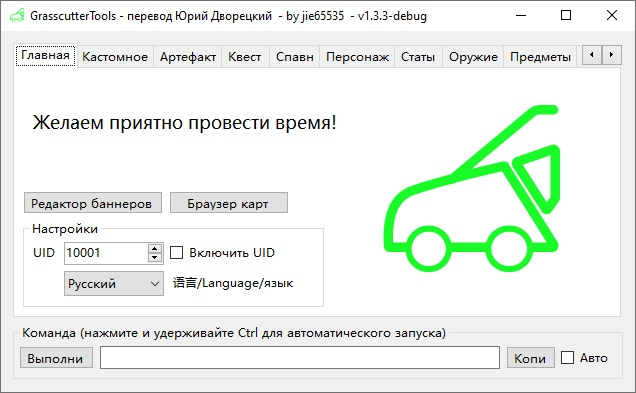
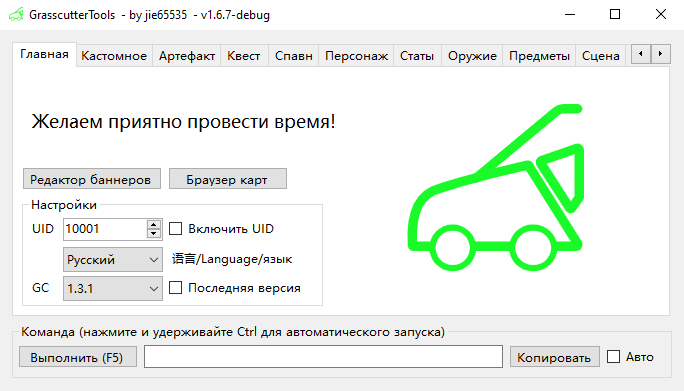
ru translation (from #119) (#120)
* Fixed some translations on Russian.
* Updated readme screenshots

diff --git a/Source/GrasscutterTools/Forms/FormMain.cs b/Source/GrasscutterTools/Forms/FormMain.cs
@@ -61,10 +61,9 @@ namespace GrasscutterTools.Forms
 
         private void FormMain_Load(object sender, EventArgs e)
         {
-#if DEBUG
-            Text += "  - by jie65535  - v" + AppVersion.ToString(3) + "-debug";
-#else
             Text += "  - by jie65535  - v" + AppVersion.ToString(3);
+#if DEBUG
+            Text += "-debug";
 #endif
 
             GameData.LoadResources();
@@ -2124,6 +2123,5 @@ namespace GrasscutterTools.Forms
         }
 
         #endregion - 任务 Quests -
-
     }
 }

diff --git a/README_ru-RU.md b/README_ru-RU.md
@@ -4,31 +4,31 @@
 [![GitHub звёзды](https://img.shields.io/github/stars/jie65535/GrasscutterCommandGenerator)](https://github.com/jie65535/GrasscutterCommandGenerator/stargazers)
 [![Github ВСЕ выпуски](https://img.shields.io/github/downloads/jie65535/GrasscutterCommandGenerator/total.svg)](https://github.com/jie65535/GrasscutterCommandGenerator/releases)
 
-[English](README.md) | [简体中文](README_zh-cn.md) | Русский - Перевод Юрий Дворецкий (с исправлениями от EgorBron) 
+[English](README.md) | [简体中文](README_zh-cn.md) | Русский - Перевод [Юрий Дворецкий](https://github.com/yurikenjx) (с исправлениями от [EgorBron](https://github.com/EgorBron)) 
 
-## Генератор команд
+## Генератор команд (GCG)
 
-Пожалуйста, загрузите последнюю версию из вкладки [Releases](https://github.com/jie65535/GrasscutterCommandGenerator/releases)
+Загрузите последнюю версию из вкладки [Releases](https://github.com/jie65535/GrasscutterCommandGenerator/releases).
 
-Поддерживает 简体中文 (китайский упр.), 繁体中文 (китайский трад.), English (английский) и Русский языки.
+GCG поддерживает 简体中文 (китайский упр.), 繁体中文 (китайский трад.), English (английский) и Русский языки.
 
-Приглашаем всех улучшить [ресурс ID](/Source/GrasscutterTools/Resources/ru-ru)
+Приглашаем всех улучшить [ID ресурсов и перевод](/Source/GrasscutterTools/Resources/ru-ru)
 
-## Удаленная команда
+## Удаленная команда (OpenCommand)
 
-Для этого серверу требуется плагин [gc-opencommand-plugin](https://github.com/jie65535/gc-opencommand-plugin)
+Чтобы использовать команды прямо из GCG, серверу требуется плагин [gc-opencommand-plugin](https://github.com/jie65535/gc-opencommand-plugin).
 
 ![Open Command](Doc/Screenshots/OpenCommand.gif)
 
-> Если вы не можете подключиться к серверу, проверьте правильность написания его URL-адреса. 
+> Если вы не можете подключиться к серверу, проверьте правильность написания его URL-адреса.
 >
-> Рекомендуется изменить секцию HTTP в конфиге как на скриншоте ниже (в файле config.json):
+> Рекомендуется изменить секцию HTTP в конфиге как на скриншоте ниже (конфиг - файл config.json):
 >
 > ![ConfigHttp](Doc/Screenshots/ConfigHttp.png)
 >
-> Для проверки можете посетить http://127.0.0.1/status/server в браузере, чтобы проверить работоспособность.
+> Для проверки можете посетить http://127.0.0.1/status/server в браузере, чтобы проверить работоспособность OpenCommand.
 >
-> Если вы не указали порт `80` в конфиге, вам нужно указать его в URL-адресе: http://127.0.0.1:443
+> Если вы не указали порт `80` в конфиге, вам нужно указать свой порт в URL-адресе (например, http://127.0.0.1:443)
 
 ---
 
@@ -40,26 +40,30 @@
 
 ![Скриншот пользовательских команд](Doc/Screenshots-ru/1-CustomCommands.png)
 
-![Скриншот Пользовательского артефакта](Doc/Screenshots-ru/2-CustomArtifact.png)
+![Скриншот артефактов](Doc/Screenshots-ru/2-CustomArtifact.png)
 
-![Скриншот Пользовательского оружия](Doc/Screenshots-ru/3-CustomWeapon.png)
+![Скриншот квестов](Doc/Screenshots-ru/3-Quest.png)
 
-![Скриншот Дать предмет](Doc/Screenshots-ru/4-GiveItem.png)
+![Скриншот спавна сущностей](Doc/Screenshots-ru/4-SpawnEntity.png)
 
-![Скриншот Дать Персонажа Screenshort](Doc/Screenshots-ru/5-GiveAvatar.png)
+![Скриншот выдачи персонажа](Doc/Screenshots-ru/5-GiveAvatar.png)
 
-![Скриншот Спавн Сущности](Doc/Screenshots-ru/6-SpawnEntity.png)
+![Скриншот кастомной статистики](Doc/Screenshots-ru/6-CustomStats.png)
 
-![Скриншот Изменить сцену](Doc/Screenshots-ru/7-ChangeScene.png)
+![Скриншот выдачи оружия](Doc/Screenshots-ru/7-CustomWeapon.png)
 
-![Скриншот Пользовательская статистика](Doc/Screenshots-ru/8-CustomStats.png)
+![Скриншот выдачи предметов](Doc/Screenshots-ru/8-GiveItem.png)
 
-![Управление](Doc/Screenshots-ru/9-Manage.png)
+![Скриншот смены сцены](Doc/Screenshots-ru/9-ChangeScene.png)
 
-![Редактор баннеров Gacha](Doc/Screenshots-ru/10-GachaBannerEditor.png)
+<!-- ![Скриншот меток](Doc/Screenshots-ru/10-Waypoints.png) -->
 
-![Текстоый Браузер карт](Doc/Screenshots-ru/11-TextMapBrowser.png)
+![Скриншот управления аккаунтом](Doc/Screenshots-ru/11-Manage.png)
 
-![Скриншот Удаленного доступа](Doc/Screenshots-ru/12-Remote.png)
+![Скриншот Credits](Doc/Screenshots-ru/12-Credits.png)
 
-![Скриншот Квесты](Doc/Screenshots-ru/13-Quest.png)
+![Скриншот OpenCommand](Doc/Screenshots-ru/13-Remote.png)
+
+![Редактор баннеров](Doc/Screenshots-ru/14-GachaBannerEditor.png)
+
+![Текстоый браузер карт](Doc/Screenshots-ru/15-TextMapBrowser.png)
